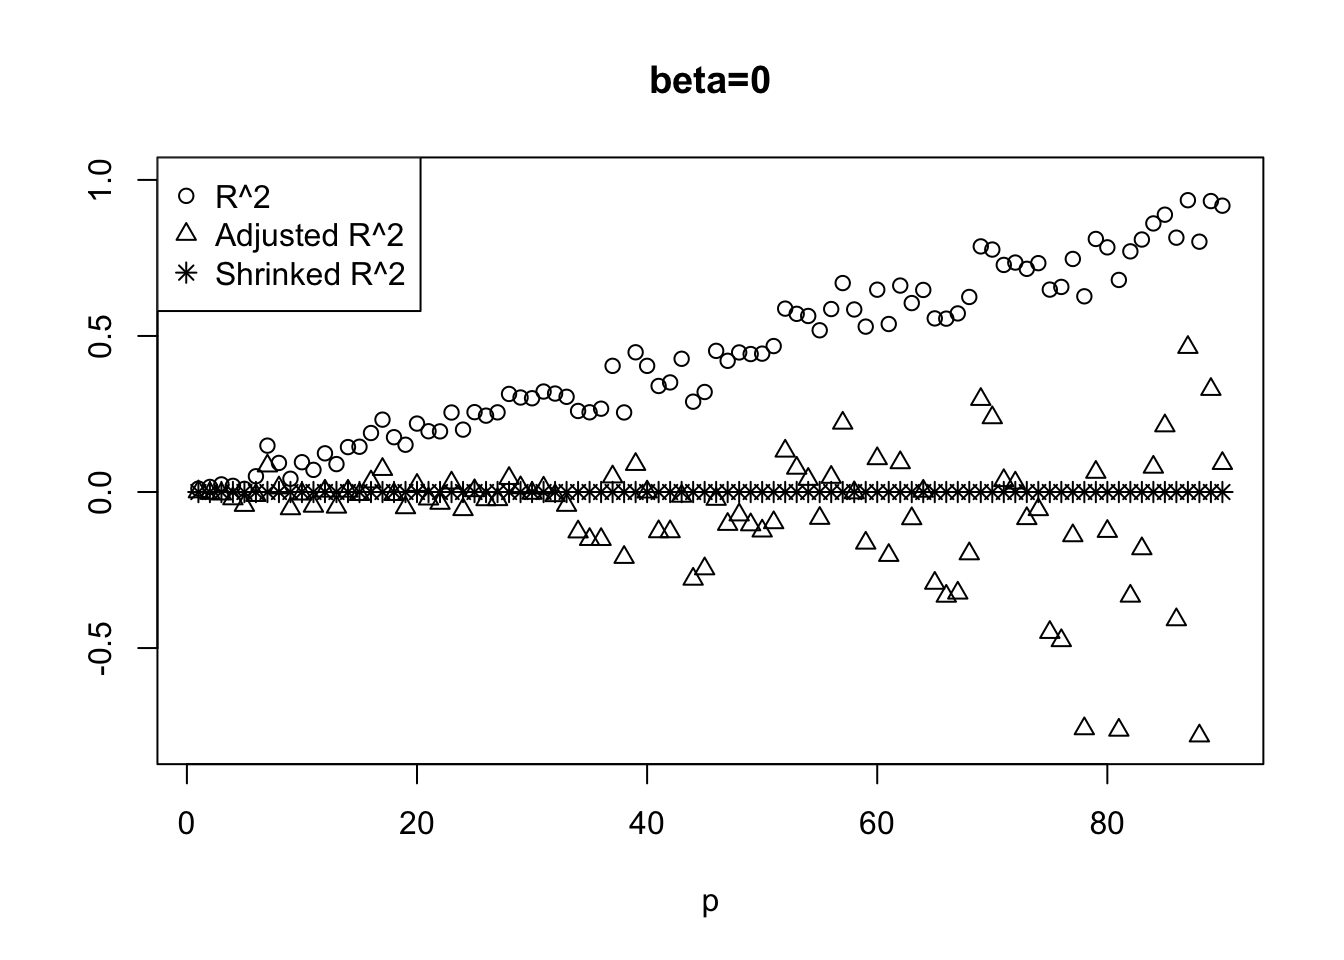
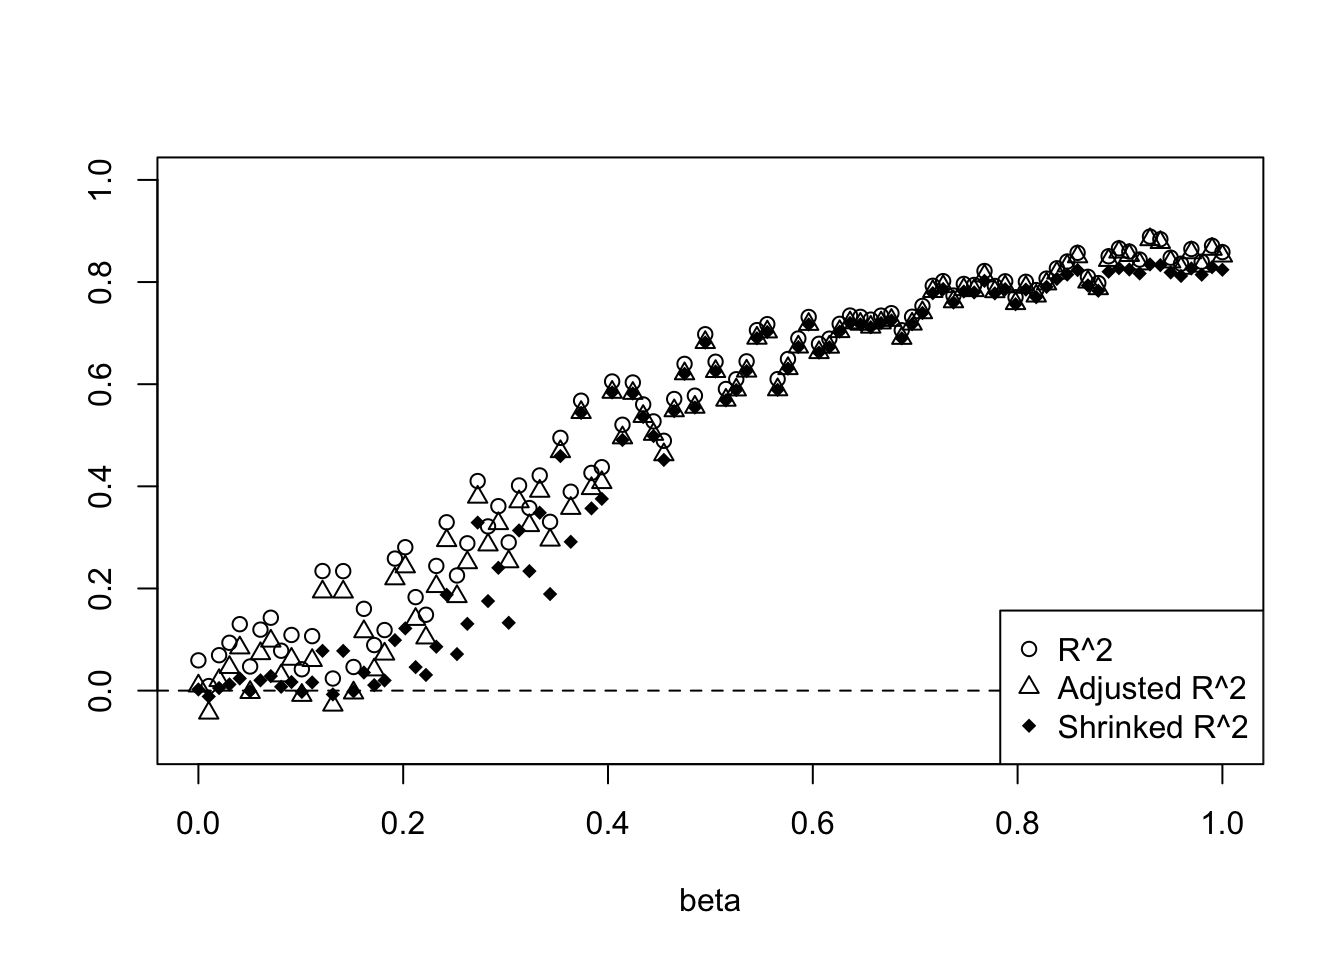
Build site.

diff --git a/docs/r2.html b/docs/r2.html
@@ -347,7 +347,7 @@ div.section {
 </details>
 </li>
 <li>
-<p><details> <summary> <strong style="color:blue;">✔</strong> <strong>Repository version:</strong> <a href="https://github.com/DongyueXie/smash-gen/tree/63ff335e781bad2ff9f6386b53ab35f57ae2ab46" target="_blank">63ff335</a> </summary></p>
+<p><details> <summary> <strong style="color:blue;">✔</strong> <strong>Repository version:</strong> <a href="https://github.com/DongyueXie/smash-gen/tree/5045f0f8088b06ca265db5dd0ba7d8d41141896a" target="_blank">5045f0f</a> </summary></p>
 Great! You are using Git for version control. Tracking code development and connecting the code version to the results is critical for reproducibility. The version displayed above was the version of the Git repository at the time these results were generated. <br><br> Note that you need to be careful to ensure that all relevant files for the analysis have been committed to Git prior to generating the results (you can use <code>wflow_publish</code> or <code>wflow_git_commit</code>). workflowr only checks the R Markdown file, but you know if there are other scripts or data files that it depends on. Below is the status of the Git repository when the results were generated:
 <pre><code>
 Ignored files:
@@ -398,6 +398,40 @@ Message
 </tr>
 </thead>
 <tbody>
+<tr>
+<td style="text-align:left;">
+Rmd
+</td>
+<td style="text-align:left;">
+<a href="https://github.com/DongyueXie/smash-gen/blob/5045f0f8088b06ca265db5dd0ba7d8d41141896a/analysis/r2.Rmd" target="_blank">5045f0f</a>
+</td>
+<td style="text-align:left;">
+Dongyue Xie
+</td>
+<td style="text-align:left;">
+2019-01-16
+</td>
+<td style="text-align:left;">
+wflow_publish(“analysis/r2.Rmd”)
+</td>
+</tr>
+<tr>
+<td style="text-align:left;">
+html
+</td>
+<td style="text-align:left;">
+<a href="https://cdn.rawgit.com/DongyueXie/smash-gen/a17b89469bcf02abcaeaf019dcb2c784350f2d04/docs/r2.html" target="_blank">a17b894</a>
+</td>
+<td style="text-align:left;">
+Dongyue Xie
+</td>
+<td style="text-align:left;">
+2019-01-16
+</td>
+<td style="text-align:left;">
+Build site.
+</td>
+</tr>
 <tr>
 <td style="text-align:left;">
 Rmd
@@ -508,52 +542,94 @@ wflow_publish(“analysis/r2.Rmd”)
 <p>Now we have a ratio of sample variances, which fits into <code>fash</code> frame work: <span class="math inline">\(\tilde F=\log\frac{\hat\sigma_\epsilon^2}{\hat\sigma^2_y}\sim \log\frac{\sigma_\epsilon^2}{\sigma^2_y}\times F_{df_1=n-p,df_2=n-1}\)</span>. <code>fash</code> shrinks <span class="math inline">\(\log\frac{\sigma_\epsilon^2}{\sigma^2_y}\)</span> towards zero hence <span class="math inline">\(\frac{\sigma_\epsilon^2}{\sigma^2_y}\)</span> towards 1 and so shrinks <span class="math inline">\(R^2\)</span> towards 0.</p>
 <p>Example:</p>
 <ol style="list-style-type: decimal">
-<li><span class="math inline">\(y=\mu+X\beta+\epsilon\)</span> where all <span class="math inline">\(\betas\)</span> are 0 and <span class="math inline">\(\epsilon\sim N(0,I_n)\)</span>.</li>
+<li>n=100, p=5. Here <span class="math inline">\(p\)</span> is the dimension excluding intercept. <span class="math inline">\(\beta\)</span> ranges from 0 to 1, for example <span class="math inline">\(\beta=(0,0,0,0,0)\)</span>,…,<span class="math inline">\(\beta=(0.1,0.1,0.1,0.1,0.1\)</span>,…, <span class="math inline">\(\beta=(1,1,1,1,1)\)</span> etc. <span class="math inline">\(y=\mu+X\beta+\epsilon\)</span> where <span class="math inline">\(\epsilon\sim N(0,I_n)\)</span>.</li>
 </ol>
-<p>Fix <span class="math inline">\(n=100\)</span> and change <span class="math inline">\(p\)</span> from 1 to 90. Here <span class="math inline">\(p\)</span> is the dimension excluding intercept.</p>
 <pre class="r"><code>library(ashr)
-set.seed(12345)
-p.list=1:90
+set.seed(1234)
 n=100
+p=5
+R2=c()
+R2a=c()
+mset=c()
+R2s=c()
+beta.list=seq(0,1,length.out = 100)
+X=matrix(rnorm(n*(p)),n,p)
+for (i in 1:length(beta.list)) {
+  beta=rep(beta.list[i],p)
+  y=X%*%beta+rnorm(n)
+  datax=data.frame(X=X,y=y)
+  mod=lm(y~X,datax)
+  mod.sy=summary(mod)
+  R2[i]=mod.sy$r.squared
+  R2a[i]=mod.sy$adj.r.squared
+  
+  mst=sum((y-mean(y))^2)/(n-1)
+  mse=sum((y-fitted(mod))^2)/(n-p-1)
+  mset[i]=mse/mst
+  
+}
 
-R2=c()
-R2a=c()
-R2s=c()
-for (i in 1:length(p.list)) {
-  p=p.list[i]
-  X=matrix(rnorm(n*(p)),n,p)
-  #X.data=cbind(rep(1,n),X)
-  beta=rep(0,p)
-  y=X%*%beta+rnorm(n)
-  datax=data.frame(X=X,y=y)
-  mod=lm(y~X,datax)
-  mod.sy=summary(mod)
-  R2[i]=mod.sy$r.squared
-  R2a[i]=mod.sy$adj.r.squared
+aa=ash(log(mset),1,lik=lik_logF(df1=n-p-1,df2=n-1))
+R2s=1-exp(aa$result$PosteriorMean)
+
+
   
-  mst=sum((y-mean(y))^2)/(n-1)
-  mse=sum((y-fitted(mod))^2)/(n-p)
-  aa=ash(log(mse/mst),1,lik=lik_logF(df1=n-p,df2=n-1))
-  R2s[i]=1-exp(aa$result$PosteriorMean)
-}
-plot(p.list,R2,ylim=c(-0.8,1),main=&#39;beta=0&#39;,xlab=&#39;p&#39;,ylab=&#39;&#39;)
-lines(p.list,R2a,type=&#39;p&#39;,pch=2)
-lines(p.list,R2s,type=&#39;p&#39;,pch=8)
-legend(&#39;topleft&#39;,c(&#39;R^2&#39;,&#39;Adjusted R^2&#39;,&#39;Shrinked R^2&#39;),pch=c(1,2,8))</code></pre>
+plot(beta.list,R2,ylim=c(-0.1,1),main=&#39;&#39;,xlab=&#39;beta&#39;,ylab=&#39;&#39;)
+lines(beta.list,R2a,type=&#39;p&#39;,pch=2)
+lines(beta.list,R2s,type=&#39;p&#39;,pch=18)
+abline(h=0,lty=2)
+legend(&#39;bottomright&#39;,c(&#39;R^2&#39;,&#39;Adjusted R^2&#39;,&#39;Shrinked R^2&#39;),pch=c(1,2,18))</code></pre>
 <p><img src="figure/r2.Rmd/unnamed-chunk-1-1.png" width="672" style="display: block; margin: auto;" /></p>
+<details> <summary><em>Expand here to see past versions of unnamed-chunk-1-1.png:</em></summary>
+<table style="border-collapse:separate; border-spacing:5px;">
+<thead>
+<tr>
+<th style="text-align:left;">
+Version
+</th>
+<th style="text-align:left;">
+Author
+</th>
+<th style="text-align:left;">
+Date
+</th>
+</tr>
+</thead>
+<tbody>
+<tr>
+<td style="text-align:left;">
+<a href="https://github.com/DongyueXie/smash-gen/blob/a17b89469bcf02abcaeaf019dcb2c784350f2d04/docs/figure/r2.Rmd/unnamed-chunk-1-1.png" target="_blank">a17b894</a>
+</td>
+<td style="text-align:left;">
+Dongyue Xie
+</td>
+<td style="text-align:left;">
+2019-01-16
+</td>
+</tr>
+</tbody>
+</table>
+<p></details></p>
+<pre class="r"><code>plot(beta.list,R2,ylim=c(-0.1,1),main=&#39;&#39;,xlab=&#39;beta&#39;,ylab=&#39;&#39;,type=&#39;l&#39;)
+lines(beta.list,R2a,col=2)
+lines(beta.list,R2s,col=4)
+abline(h=0,lty=2)
+legend(&#39;bottomright&#39;,c(&#39;R^2&#39;,&#39;Adjusted R^2&#39;,&#39;Shrinked R^2&#39;),lty=c(1,1,1),col=c(1,2,4))</code></pre>
+<p><img src="figure/r2.Rmd/unnamed-chunk-1-2.png" width="672" style="display: block; margin: auto;" /></p>
 <ol start="2" style="list-style-type: decimal">
-<li><span class="math inline">\(y=\mu+X\beta+\epsilon\)</span> where all <span class="math inline">\(\betas\)</span> are 1 and <span class="math inline">\(\epsilon\sim N(0,I_n)\)</span>.</li>
+<li>First 50 <span class="math inline">\(\beta\)</span>s are 0, last 50 <span class="math inline">\(\beta\)</span>s range from 0 to 1. The other settings are the same as those in 1.</li>
 </ol>
-<p>Fix <span class="math inline">\(n=100\)</span> and change <span class="math inline">\(p\)</span> from 1 to 90.</p>
-<pre class="r"><code>set.seed(12345)
+<pre class="r"><code>set.seed(1234)
+n=100
+p=5
 R2=c()
 R2a=c()
+mset=c()
 R2s=c()
-for (i in 1:length(p.list)) {
-  p=p.list[i]
-  X=matrix(rnorm(n*(p)),n,p)
-  #X.data=cbind(rep(1,n),X)
-  beta=rep(1,p)
+beta.list=c(rep(0,50),seq(0,1,length.out = 50))
+X=matrix(rnorm(n*(p)),n,p)
+for (i in 1:length(beta.list)) {
+  beta=rep(beta.list[i],p)
   y=X%*%beta+rnorm(n)
   datax=data.frame(X=X,y=y)
   mod=lm(y~X,datax)
@@ -562,15 +638,98 @@ for (i in 1:length(p.list)) {
   R2a[i]=mod.sy$adj.r.squared
   
   mst=sum((y-mean(y))^2)/(n-1)
-  mse=sum((y-fitted(mod))^2)/(n-p)
-  aa=ash(log(mse/mst),1,lik=lik_logF(df1=n-p,df2=n-1))
-  R2s[i]=1-exp(aa$result$PosteriorMean)
+  mse=sum((y-fitted(mod))^2)/(n-p-1)
+  mset[i]=mse/mst
+  
 }
-plot(p.list,R2,ylim=c(0.7,1),main=&#39;beta=1&#39;,xlab=&#39;p&#39;,ylab=&#39;&#39;)
-lines(p.list,R2a,type=&#39;p&#39;,pch=4)
-lines(p.list,R2s,type=&#39;p&#39;,pch=8)
-legend(&#39;bottomright&#39;,c(&#39;R^2&#39;,&#39;Adjusted R^2&#39;,&#39;Shrinked R^2&#39;),pch=c(1,2,8))</code></pre>
+
+aa=ash(log(mset),1,lik=lik_logF(df1=n-p-1,df2=n-1))
+R2s=1-exp(aa$result$PosteriorMean)
+  
+plot(R2,ylim=c(-0.1,1),main=&#39;&#39;,ylab=&#39;R^2&#39;)
+lines(R2a,type=&#39;p&#39;,pch=2)
+lines(R2s,type=&#39;p&#39;,pch=18)
+abline(h=0,lty=2)
+legend(&#39;bottomright&#39;,c(&#39;R^2&#39;,&#39;Adjusted R^2&#39;,&#39;Shrinked R^2&#39;),pch=c(1,2,18))</code></pre>
 <p><img src="figure/r2.Rmd/unnamed-chunk-2-1.png" width="672" style="display: block; margin: auto;" /></p>
+<details> <summary><em>Expand here to see past versions of unnamed-chunk-2-1.png:</em></summary>
+<table style="border-collapse:separate; border-spacing:5px;">
+<thead>
+<tr>
+<th style="text-align:left;">
+Version
+</th>
+<th style="text-align:left;">
+Author
+</th>
+<th style="text-align:left;">
+Date
+</th>
+</tr>
+</thead>
+<tbody>
+<tr>
+<td style="text-align:left;">
+<a href="https://github.com/DongyueXie/smash-gen/blob/a17b89469bcf02abcaeaf019dcb2c784350f2d04/docs/figure/r2.Rmd/unnamed-chunk-2-1.png" target="_blank">a17b894</a>
+</td>
+<td style="text-align:left;">
+Dongyue Xie
+</td>
+<td style="text-align:left;">
+2019-01-16
+</td>
+</tr>
+</tbody>
+</table>
+<p></details></p>
+<pre class="r"><code>plot(R2,ylim=c(-0.1,1),main=&#39;&#39;,ylab=&#39;R^2&#39;,type=&#39;l&#39;)
+lines(R2a,col=2)
+lines(R2s,col=4)
+abline(h=0,lty=2)
+legend(&#39;bottomright&#39;,c(&#39;R^2&#39;,&#39;Adjusted R^2&#39;,&#39;Shrinked R^2&#39;),lty=c(1,1,1),col=c(1,2,4))</code></pre>
+<p><img src="figure/r2.Rmd/unnamed-chunk-2-2.png" width="672" style="display: block; margin: auto;" /></p>
+<ol start="3" style="list-style-type: decimal">
+<li>Increase p to 20. The others are the same as those in 2.</li>
+</ol>
+<pre class="r"><code>set.seed(1234)
+n=100
+p=20
+R2=c()
+R2a=c()
+mset=c()
+R2s=c()
+beta.list=c(rep(0,50),seq(0,1,length.out = 50))
+X=matrix(rnorm(n*(p)),n,p)
+for (i in 1:length(beta.list)) {
+  beta=rep(beta.list[i],p)
+  y=X%*%beta+rnorm(n)
+  datax=data.frame(X=X,y=y)
+  mod=lm(y~X,datax)
+  mod.sy=summary(mod)
+  R2[i]=mod.sy$r.squared
+  R2a[i]=mod.sy$adj.r.squared
+  
+  mst=sum((y-mean(y))^2)/(n-1)
+  mse=sum((y-fitted(mod))^2)/(n-p-1)
+  mset[i]=mse/mst
+  
+}
+
+aa=ash(log(mset),1,lik=lik_logF(df1=n-p-1,df2=n-1))
+R2s=1-exp(aa$result$PosteriorMean)
+  
+plot(R2,ylim=c(-0.1,1),main=&#39;&#39;,ylab=&#39;R^2&#39;)
+lines(R2a,type=&#39;p&#39;,pch=2)
+lines(R2s,type=&#39;p&#39;,pch=18)
+abline(h=0,lty=2)
+legend(&#39;bottomright&#39;,c(&#39;R^2&#39;,&#39;Adjusted R^2&#39;,&#39;Shrinked R^2&#39;),pch=c(1,2,18))</code></pre>
+<p><img src="figure/r2.Rmd/unnamed-chunk-3-1.png" width="672" style="display: block; margin: auto;" /></p>
+<pre class="r"><code>plot(R2,ylim=c(-0.1,1),main=&#39;&#39;,ylab=&#39;R^2&#39;,type=&#39;l&#39;)
+lines(R2a,col=2)
+lines(R2s,col=4)
+abline(h=0,lty=2)
+legend(&#39;bottomright&#39;,c(&#39;R^2&#39;,&#39;Adjusted R^2&#39;,&#39;Shrinked R^2&#39;),lty=c(1,1,1),col=c(1,2,4))</code></pre>
+<p><img src="figure/r2.Rmd/unnamed-chunk-3-2.png" width="672" style="display: block; margin: auto;" /></p>
 </div>
 <div id="facts-might-be-useful" class="section level2">
 <h2>Facts might be useful</h2>
